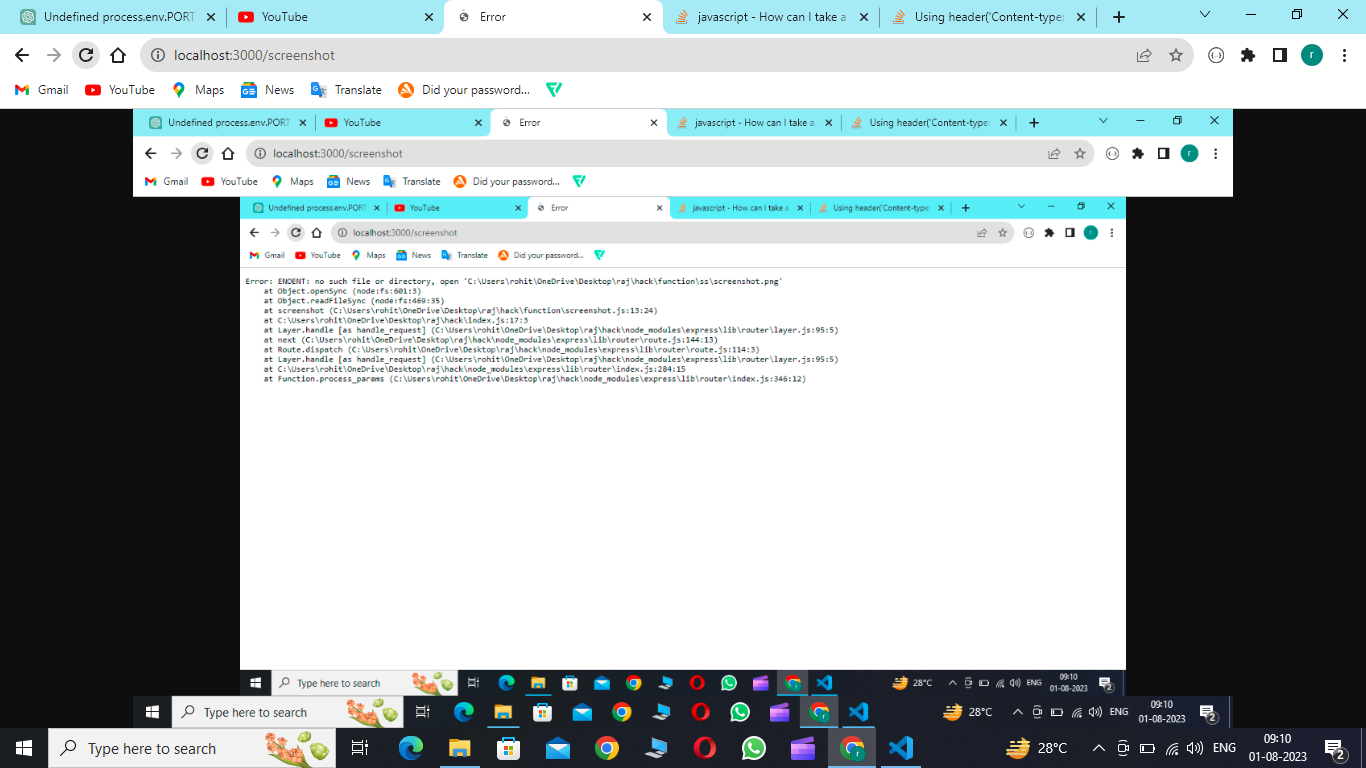
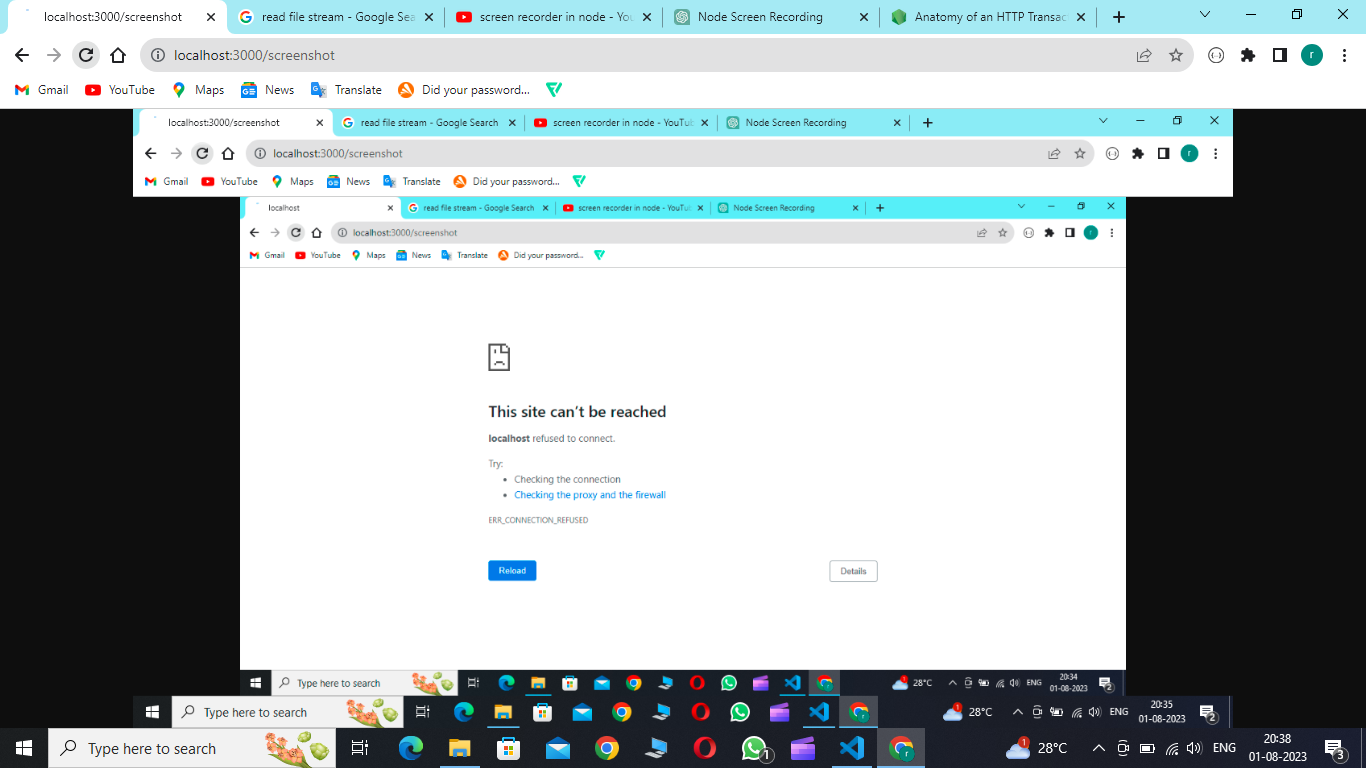
test

diff --git a/function/screenshot.js b/function/screenshot.js
@@ -3,16 +3,21 @@ const path = require("path");
 const fs = require("fs");
 
 const screenshot = (req, res) => {
-  res.setHeader("Content-Type", "image/png");
-  res.setHeader("Cache-Control", "no-cache");
-  res.setHeader("Connection", "keep-alive");
-  ss("ss/screenshot.png", function (error, complete) {
-    if (error) console.log("Screenshot failed", error);
-    else console.log("Screenshot succeeded");
+  ss("ss/screenshot.png", (error) => {
+    if (error) {
+      return res.status(500).send(error);
+    }
+    const imagePath = path.join(__dirname, "../", "ss", "screenshot.png");
+    const imageData = fs.createReadStream(imagePath);
+    imageData.on("data", (chunks) => {
+      res.write(chunks);
+    });
+    imageData.on("end", () => {
+      console.log("done");
+      //screenshot(req, res);
+      //res.send("done");
+    });
   });
-  const imageData = fs.readFileSync(
-    path.join(__dirname, "../", "ss", "screenshot.png")
-  );
-  res.status(200).write(imageData);
 };
+
 module.exports = screenshot;

diff --git a/index.js b/index.js
@@ -14,7 +14,13 @@ app.get("/camera", (req, res) => {
   camera(req, res);
 });
 app.get("/screenshot", (req, res) => {
+  res.setHeader("Content-Type", "image/png");
+  res.setHeader("Cache-Control", "no-cache");
+  res.setHeader("Connection", "keep-alive");
   screenshot(req, res);
+  req.on("close", () => {
+    console.log("Client disconnected");
+  });
 });
 
 app.listen(PORT, () => {
